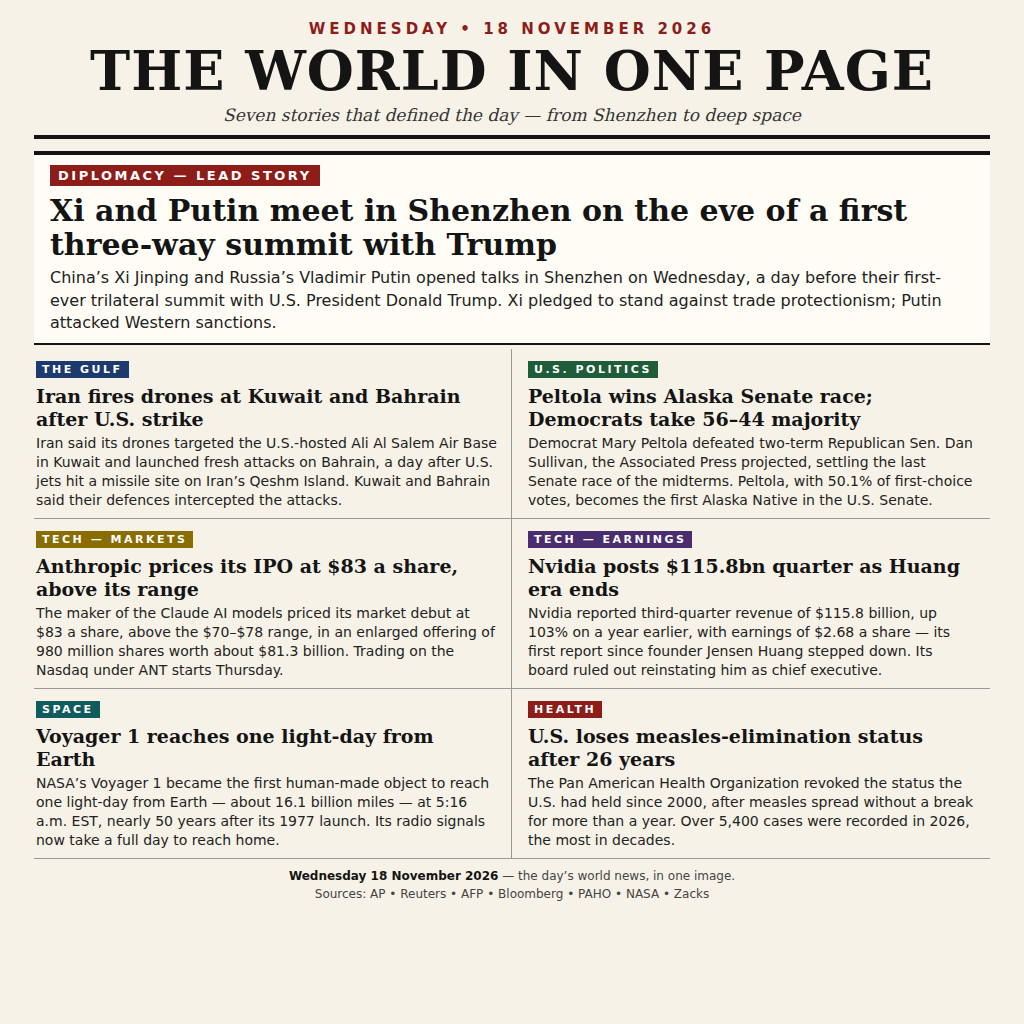
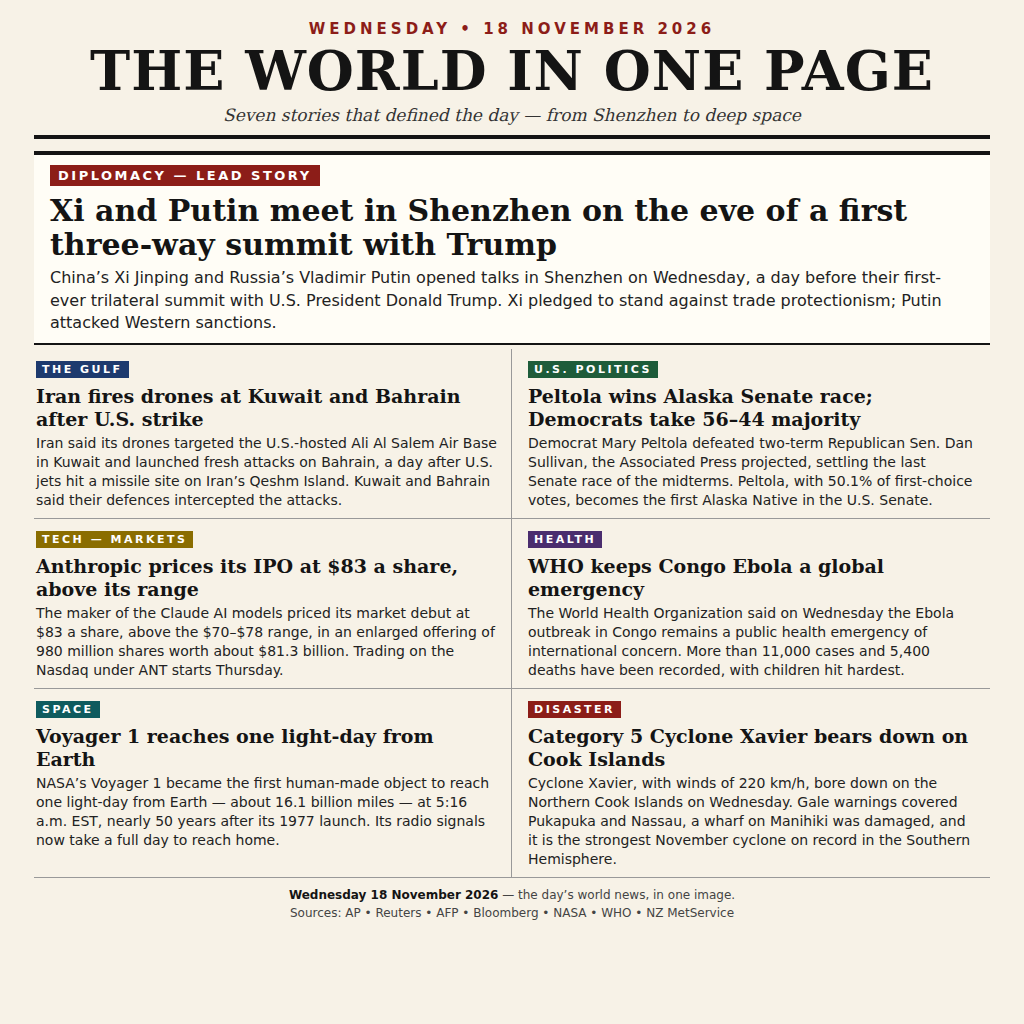
Fix two stories to verified 18 Nov events: Ebola PHEIC decision, Cyclone Xavier
Nvidia Q3 earnings and the measles-elimination loss were both first
reported on 17 Nov, not 18 Nov. Replaced with two events verified
from at least two sources as 18 Nov: WHO keeping the Congo Ebola
outbreak a public health emergency, and Category 5 Cyclone Xavier
bearing down on the Northern Cook Islands. README story list and
footer sources updated to match.

Changed region(s): [[0.2812, 0.5, 0.9688, 0.9062]]

diff --git a/render.html b/render.html
@@ -104,9 +104,9 @@
       <p>The maker of the Claude AI models priced its market debut at $83 a share, above the $70&ndash;$78 range, in an enlarged offering of 980 million shares worth about $81.3 billion. Trading on the Nasdaq under ANT starts Thursday.</p>
     </section>
     <section class="cell">
-      <span class="kicker purple">Tech &mdash; Earnings</span>
-      <h3>Nvidia posts $115.8bn quarter as Huang era ends</h3>
-      <p>Nvidia reported third-quarter revenue of $115.8 billion, up 103% on a year earlier, with earnings of $2.68 a share &mdash; its first report since founder Jensen Huang stepped down. Its board ruled out reinstating him as chief executive.</p>
+      <span class="kicker purple">Health</span>
+      <h3>WHO keeps Congo Ebola a global emergency</h3>
+      <p>The World Health Organization said on Wednesday the Ebola outbreak in Congo remains a public health emergency of international concern. More than 11,000 cases and 5,400 deaths have been recorded, with children hit hardest.</p>
     </section>
     <section class="cell">
       <span class="kicker teal">Space</span>
@@ -114,15 +114,15 @@
       <p>NASA&rsquo;s Voyager 1 became the first human-made object to reach one light-day from Earth &mdash; about 16.1 billion miles &mdash; at 5:16 a.m. EST, nearly 50 years after its 1977 launch. Its radio signals now take a full day to reach home.</p>
     </section>
     <section class="cell">
-      <span class="kicker">Health</span>
-      <h3>U.S. loses measles-elimination status after 26 years</h3>
-      <p>The Pan American Health Organization revoked the status the U.S. had held since 2000, after measles spread without a break for more than a year. Over 5,400 cases were recorded in 2026, the most in decades.</p>
+      <span class="kicker">Disaster</span>
+      <h3>Category 5 Cyclone Xavier bears down on Cook Islands</h3>
+      <p>Cyclone Xavier, with winds of 220 km/h, bore down on the Northern Cook Islands on Wednesday. Gale warnings covered Pukapuka and Nassau, a wharf on Manihiki was damaged, and it is the strongest November cyclone on record in the Southern Hemisphere.</p>
     </section>
   </div>
 
   <footer>
     <b>Wednesday 18 November 2026</b> &mdash; the day&rsquo;s world news, in one image.<br>
-    Sources: AP &bull; Reuters &bull; AFP &bull; Bloomberg &bull; PAHO &bull; NASA &bull; Zacks
+    Sources: AP &bull; Reuters &bull; AFP &bull; Bloomberg &bull; NASA &bull; WHO &bull; NZ MetService
   </footer>
 </body>
 </html>

diff --git a/README.md b/README.md
@@ -14,9 +14,9 @@ Entry for the [make.fun bounty "Sum up 18 November's world news in one image"](h
 2. **Iran fires drones at Kuwait and Bahrain** after a U.S. strike on Qeshm Island (Reuters / Wall Street Journal, Defence Blog)
 3. **Mary Peltola wins Alaska's Senate race**; Democrats take a 56–44 majority (Associated Press, Alaska Public Media)
 4. **Anthropic prices its IPO at $83 a share**, above its $70–$78 range (Reuters / Bloomberg, Motley Fool)
-5. **Nvidia posts a $115.8bn quarter**, up 103%, its first report since Jensen Huang stepped down (Zacks, Motley Fool)
+5. **WHO keeps Congo Ebola a global emergency** as cases pass 11,000 (WHO, CDC)
 6. **Voyager 1 reaches one light-day from Earth**, about 16.1 billion miles (NASA / Smithsonian, USA Today)
-7. **The U.S. loses its measles-elimination status** after 26 years, with over 5,400 cases in 2026 (PAHO via AP, CDC)
+7. **Category 5 Cyclone Xavier bears down on the Cook Islands** (NZ MetService, Fiji Meteorological Service)
 
 The image was rendered from hand-written HTML (`render.html`) with headless Chrome — no AI image generator, so every headline is sharp and legible.
 
